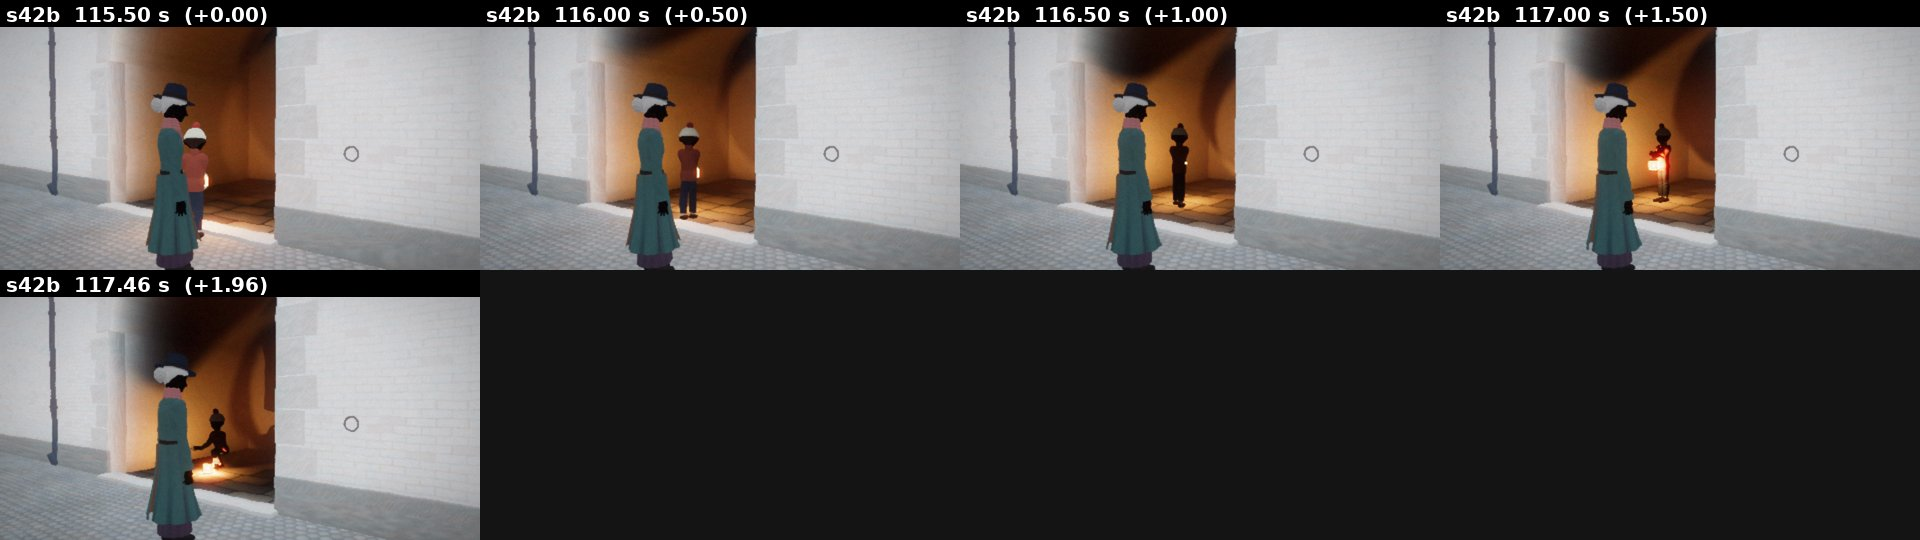
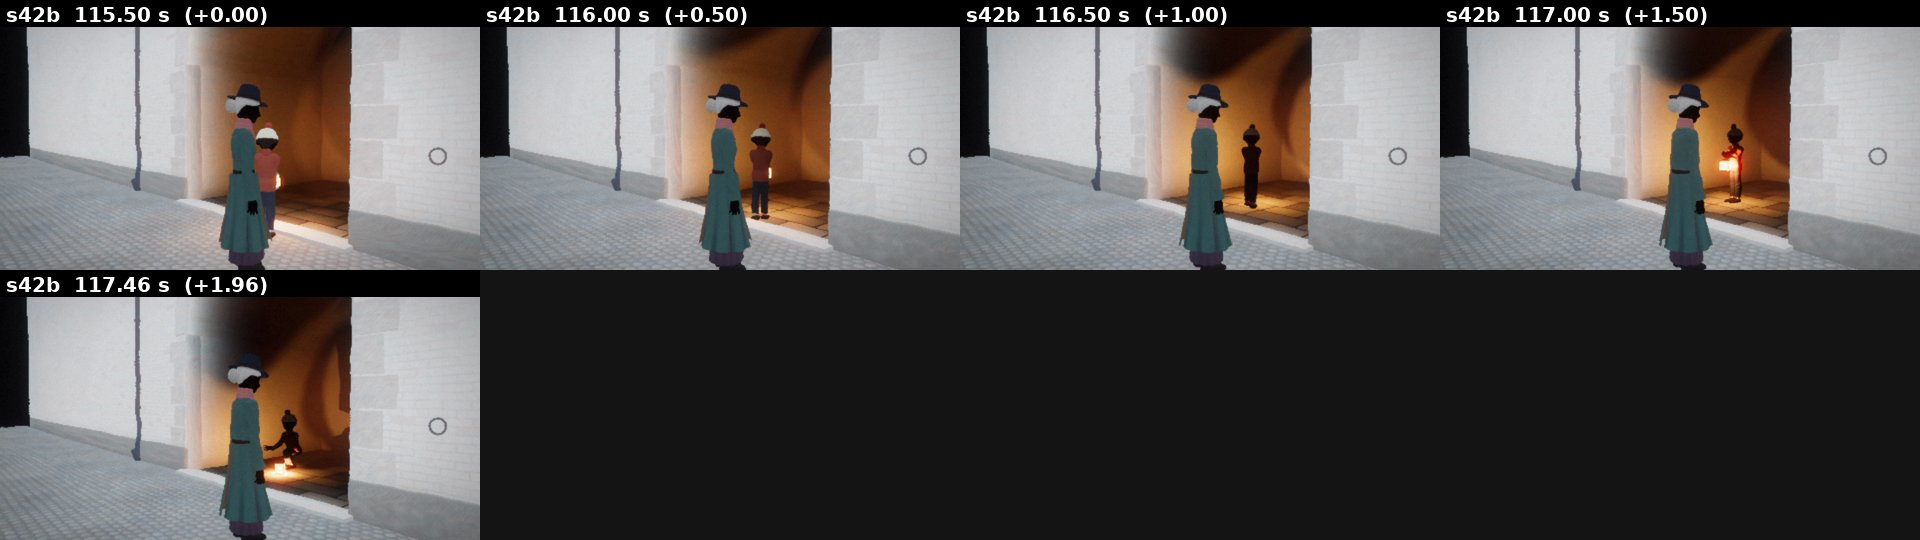
B3–B4: bảng khung sau cảnh 4 + s42b, báo cáo BAO-CAO-B34 (lệch 0 px 63/63)
Claude-Session: https://claude.ai/code/session_013vfSagBSEu3FHp4au7vwuU

diff --git a/reports/m2/cong6/b34/BAO-CAO-B34.md b/reports/m2/cong6/b34/BAO-CAO-B34.md
@@ -1,0 +1,39 @@
+# BÁO CÁO B3–B4 — cảnh 4 (hướng ánh) + mục treo W2 (30/09/2026)
+
+Nhánh `cong6-b34` (từ main `00a4ead`). Chỉ sửa `design/cong5/layout/shots_w2.js` + `shots/layout/continuity/canh-4.md`, `canh-5.md` + thư mục này. Không sửa `sets_end.js`, mã dùng chung, tài sản khoá, bible, checks. Không làm việc Cổng 7.
+Bảng khung 0,5 s trước/sau: `reports/m2/cong6/b34/{s25…s32, s39, s41, s42a, s42b}_{truoc,sau}.jpg` ("trước" từ mp4 v2/v3 đã duyệt v19, "sau" từ mp4 B34).
+
+## 1. B3 — ánh điện cảnh 4 từ mé đối diện
+- Cột sân (sets_end `wallPost`) **ẩn ở mọi shot s25–s32** (thân, bóng đèn, quầng, loá). **Chính** PointLight của cột dời tới (7,2; 6,2; 12,2) hệ tường chim — vị trí đã dùng ở s27 v3, mé đường đối diện dãy đèn khí, ngoài khung. Cùng nhịp bật 64,4 s, cùng màu; không thêm nguồn.
+- **Chỉ đổi hướng, giữ mức:** nguồn cũ rọi xiên mặt tường (cos ≈ 0,26), nguồn mới gần vuông góc (cos ≈ 0,9) → nếu giữ hệ số 2,7 của s27, tường ở các shot cận sáng hơn ≈ 3,5×. Chọn hệ số **0,85** cho s25, s26, s28–s32 (s27 giữ 2,7 như bản đã duyệt). Đo độ sáng trung bình (luma /255, khung 960×540) cũ → mới: **s28** (68,0 s) nửa trên 137,2 → 143,4; vùng tường phải 150,6 → 145,5; **s32** (79,0 s) nửa trên 147,4 → 150,3; vùng chim 179,8 → 177,2; vùng giữa 152,8 → 160,9 (lệch ≤ 5,3 %).
+- Luật chim bóng: nhịp nhạt dần khi điện bật chỉ ở s27 (giữ nguyên hàm switchOn). s32: chim từ đèn lồng ≤ 0,7 m vẫn rõ, tường quanh chim sáng như cũ (±1,5 %) nên tỷ lệ đèn lồng : tràn không đổi đáng kể (không đo lại tỷ lệ 4 : 1 bằng máy — P chạy luật).
+
+## 2. B4 — mục treo W2
+| Mục | Nguyên nhân | Sửa | Số đo |
+|---|---|---|---|
+| **M5** s42b Cas "trong suốt" (≈ 2806–2819) | v2 bật lại quầng sprite của đèn lồng ở 1,9 s → quầng phủ lên Cas ngồi xổm cạnh đèn; thêm: tư thế ôm cũ ép đèn vào ngực (nguồn nằm trong khối thân → mặt trước tối). | Tắt quầng sprite suốt s42b; tư thế ôm mới (dưới). | Bảng `s42b_sau`: Cas đặc, có sáng mặt trước ở 116,0 s; ngồi xổm 117,46 s là bóng dáng tối có đèn trước mặt, không còn trong suốt. |
+| **M1** trục s42b | Máy v2 (0,9; 1,25; 8,2) ở phía −x của đường Ida–Cas; s42a/s42 ở phía +x. | Máy (3,6; 1,3; 7,4) → nhìn (−1,1; 1,05; 3,2). Ida vẫn ở miệng vòm (N5). | Ida TRÁI, Cas PHẢI như s42a/s42. |
+| **M3** s39 "cuống tay" | Tay trái nắm ống khí dưới van, lộ ở góc dưới-trái khi bà cúi. | Bà buông van suốt vế cuối (tay nghỉ dưới khung CU). | Bảng `s39_sau`: không còn mảng da ở góc khung; chỉ van đồng. |
+| **Bắp tay Cas lún vào áo** (s41, s42a, s42b) | `casHug` v2: vai −12°, khép −18°, khuỷu −112° → khuỷu nằm TRONG khối thân. | Vai đưa trước 34°, dang 14°, khuỷu −78°; IK tay vẫn nắm vòng quai. Độ dài xương không đổi (0,1957 / 0,1794 m). | s42a 114,5 s: khuỷu cách trục thân sang bên **1,5–3,2 → 6,0–7,1 cm**, ra trước **−1,0…−1,7 → +8,8 cm**; tâm vòng quai trước cổ **0,187 → 0,270 m**. P chạy C3 lượt Cas. |
+| **N7** đèn lồng hông s27, s30 | Móc ở hông TRÁI, máy ở sau-phải → thân bà che. | s27: đèn lùi ra sau 9 cm (vẫn ở hông) → ló khỏi thân; s30: bà đi vào đã cầm đèn tay phải (phía máy), tháo móc ngoài hình. | Bảng `s27_sau`, `s30_sau`: kính đèn sáng thấy từ khung đầu. |
+
+## 3. Lệch 0 px
+Gốc probe tạo TRƯỚC khi sửa (`/var/tmp/cine-out/W2/lech4/goc`), so sau (`…/lech4/sau`): s02, s23, s24c + s33, s34, s35, s36, s37, s37b, s37w, s38, s40, s40w, s42, s43, s44, s45, s46, s45c, s47, s48 — **63 ảnh; lệch 0**.
+
+## 4. MP4 mới (`/var/tmp/cine-out/W2/`, 960×540, kèm `timing_*.json`)
+| Shot | MP4 |
+|---|---|
+| s25–s32 (gồm s27) | `video_s25-s26-s27-s28-s29-s30-s31-s32.mp4` (B34, 30/09 ≈ 11:40; thay bản v2 và `video_s27.mp4` v3) |
+| s39, s41 | `video_s39-s41.mp4` |
+| s42a | `video_s42a-s42b.mp4` (s42b trong tệp này là bản trung gian) |
+| s42b | `video_s42b.mp4` (bản cuối, máy nhìn vào giữa vòm) |
+Mọi shot khác giữ mp4 đã merge ở main.
+
+## 6. Token, thời gian
+- Bộ đếm công cụ ≈ 60 nghìn cho gói B3–B4 (hạn 250 nghìn).
+- Thời gian thật 08:13 → ≈ 11:45 UTC 30/09/2026 (≈ 3,5 giờ; phần lớn chờ hàng đợi render dùng chung với phiên W1).
+
+## 5. Rủi ro
+- s30: bà cầm đèn tay phải ngay từ đầu (thay nhịp tháo móc ở 0,95 s) — đổi diễn nhỏ; hắt sáng đèn lồng vẫn tăng dần 0,8–1,85 s như cũ.
+- s42b: vòm nhìn chéo từ phía +x, bức tường nhà kho chiếm phần phải khung; Cas đi vào sâu nhỏ hơn bản v2.
+- s27 và các shot cận cảnh 4 dùng hệ số khác nhau (2,7 / 0,85) cho cùng một nguồn — theo lệnh "giữ mức gần như hiện có"; hiệu chỉnh mức thống nhất là việc Cổng 7.
